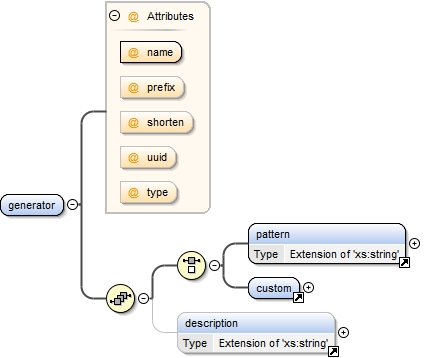
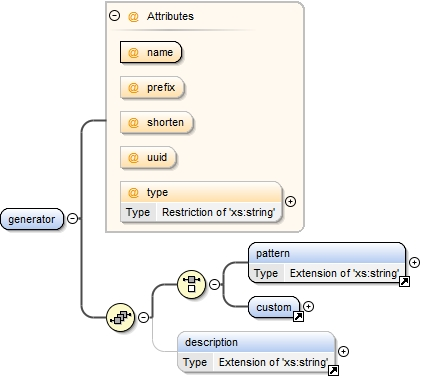
added only any, label and instance as allowed types in type attribute

Changed region(s): [[0.1781, 0.0, 0.9795, 1.0], [0.0, 0.5223, 0.2078, 0.6145], [0.7717, 0.8911, 0.8014, 0.9525]]

diff --git a/resources/X3ML Schema/generator_policy_documentation/generatorPolicy_xsd.html b/resources/X3ML Schema/generator_policy_documentation/generatorPolicy_xsd.html
@@ -16,7 +16,9 @@
 				'properties_custom_custom_set-arg_name', 
 				'properties_custom_custom_set-arg_type', 
 				'properties_custom_generatorClass', 
-				'properties_generator_name');
+				'properties_generator_name', 
+				'properties_generator_type');
+var facetsBoxes= new Array('facets_generator_type');
 var usedByBoxes= new Array('usedBy_generator', 
 				'usedBy_pattern', 
 				'usedBy_custom', 
@@ -311,6 +313,9 @@ var modelBoxes= new Array('model_generator_policy',
                         <td><span><input type="checkbox" value="-" checked="checked" onclick="switchStateForAll(this, diagramBoxes);" class="control" /></span><span class="globalControlName">Diagrams</span></td>
                      </tr>
                      <tr>
+                        <td><span><input type="checkbox" value="-" checked="checked" onclick="switchStateForAll(this, facetsBoxes);" class="control" /></span><span class="globalControlName">Facets </span></td>
+                     </tr>
+                     <tr>
                         <td><span><input type="checkbox" value="-" checked="checked" onclick="switchStateForAll(this, identityConstraintsBoxes);" class="control" /></span><span class="globalControlName">Identity Constraints</span></td>
                      </tr>
                      <tr>
@@ -521,10 +526,10 @@ var modelBoxes= new Array('model_generator_policy',
                                  <area alt="generatorPolicy_xsd.tmp#generator_prefix" href="generatorPolicy_xsd.html#generator_prefix" coords="120,76,187,101" />
                                  <area alt="generatorPolicy_xsd.tmp#generator_shorten" href="generatorPolicy_xsd.html#generator_shorten" coords="120,111,196,136" />
                                  <area alt="generatorPolicy_xsd.tmp#generator_uuid" href="generatorPolicy_xsd.html#generator_uuid" coords="120,146,179,171" />
-                                 <area alt="generatorPolicy_xsd.tmp#generator_type" href="generatorPolicy_xsd.html#generator_type" coords="120,181,180,206" />
-                                 <area alt="generatorPolicy_xsd.tmp#pattern" href="generatorPolicy_xsd.html#pattern" coords="248,223,420,267" />
-                                 <area alt="generatorPolicy_xsd.tmp#custom" href="generatorPolicy_xsd.html#custom" coords="248,277,314,302" />
-                                 <area alt="generatorPolicy_xsd.tmp#description" href="generatorPolicy_xsd.html#description" coords="177,312,349,356" /></map></div>
+                                 <area alt="generatorPolicy_xsd.tmp#generator_type" href="generatorPolicy_xsd.html#generator_type" coords="120,181,296,225" />
+                                 <area alt="generatorPolicy_xsd.tmp#pattern" href="generatorPolicy_xsd.html#pattern" coords="248,242,420,286" />
+                                 <area alt="generatorPolicy_xsd.tmp#custom" href="generatorPolicy_xsd.html#custom" coords="248,296,314,321" />
+                                 <area alt="generatorPolicy_xsd.tmp#description" href="generatorPolicy_xsd.html#description" coords="177,331,349,375" /></map></div>
                         </td>
                      </tr>
                      <tr>
@@ -631,7 +636,7 @@ var modelBoxes= new Array('model_generator_policy',
                                  </tr>
                                  <tr>
                                     <td class="firstColumn"><b><a href="generatorPolicy_xsd.html#generator_type" target="mainFrame" title="No namespace" onclick="updatePageTitle('Schema documentation for generatorPolicy.xsd')">type</a></b></td>
-                                    <td></td>
+                                    <td>restriction of <b>xs:string</b></td>
                                     <td>optional</td>
                                     <td>
                                        <div class="annotation"></div>
@@ -671,7 +676,15 @@ var modelBoxes= new Array('model_generator_policy',
     </span><span class="tEl">&lt;xs:attribute</span><span class="tAN"> name=</span><span class="tAV">"prefix"</span><span class="tEl">/&gt;</span><span class="tI">
     </span><span class="tEl">&lt;xs:attribute</span><span class="tAN"> name=</span><span class="tAV">"shorten"</span><span class="tEl">/&gt;</span><span class="tI">
     </span><span class="tEl">&lt;xs:attribute</span><span class="tAN"> name=</span><span class="tAV">"uuid"</span><span class="tEl">/&gt;</span><span class="tI">
-    </span><span class="tEl">&lt;xs:attribute</span><span class="tAN"> name=</span><span class="tAV">"type"</span><span class="tEl">/&gt;</span><span class="tI">
+    </span><span class="tEl">&lt;xs:attribute</span><span class="tAN"> name=</span><span class="tAV">"type"</span><span class="tEl">&gt;</span><span class="tI">
+      </span><span class="tEl">&lt;xs:simpleType</span><span class="tEl">&gt;</span><span class="tI">
+        </span><span class="tEl">&lt;xs:restriction</span><span class="tAN"> base=</span><span class="tAV">"xs:string"</span><span class="tEl">&gt;</span><span class="tI">
+          </span><span class="tEl">&lt;xs:enumeration</span><span class="tAN"> value=</span><span class="tAV">"any"</span><span class="tEl">/&gt;</span><span class="tI">
+          </span><span class="tEl">&lt;xs:enumeration</span><span class="tAN"> value=</span><span class="tAV">"instance"</span><span class="tEl">/&gt;</span><span class="tI">
+          </span><span class="tEl">&lt;xs:enumeration</span><span class="tAN"> value=</span><span class="tAV">"label"</span><span class="tEl">/&gt;</span><span class="tI">
+        </span><span class="tEl">&lt;/xs:restriction&gt;</span><span class="tI">
+      </span><span class="tEl">&lt;/xs:simpleType&gt;</span><span class="tI">
+    </span><span class="tEl">&lt;/xs:attribute&gt;</span><span class="tI">
   </span><span class="tEl">&lt;/xs:complexType&gt;</span><span class="tI">
 </span><span class="tEl">&lt;/xs:element&gt;</span></pre></td>
                                  </tr>
@@ -1622,6 +1635,59 @@ var modelBoxes= new Array('model_generator_policy',
                         <td>No namespace</td>
                      </tr>
                      <tr>
+                        <td class="firstColumn"><b>Type</b></td>
+                        <td>restriction of <b>xs:string</b></td>
+                     </tr>
+                     <tr>
+                        <td class="firstColumn">
+                           <div class="floatLeft"><b>Properties</b></div>
+                           <div class="floatRight"><input id="button_properties_generator_type" type="image" src="img/btM.gif" value="-" onclick="switchState('properties_generator_type');" class="control" /></div>
+                        </td>
+                        <td>
+                           <div id="properties_generator_type" style="display:block">
+                              <table class="propertiesTable">
+                                 <tr>
+                                    <td class="firstColumn" style="white-space: nowrap;">content</td>
+                                    <td><b>simple</b></td>
+                                 </tr>
+                              </table>
+                           </div>
+                        </td>
+                     </tr>
+                     <tr>
+                        <td class="firstColumn">
+                           <div class="floatLeft"><b>Facets</b></div>
+                           <div class="floatRight"><input id="button_facets_generator_type" type="image" src="img/btM.gif" value="-" onclick="switchState('facets_generator_type');" class="control" /></div>
+                        </td>
+                        <td>
+                           <div id="facets_generator_type" style="display:block">
+                              <table class="facetsTable">
+                                 <tr>
+                                    <td class="firstColumn">enumeration</td>
+                                    <td width="30%"><b>any</b></td>
+                                    <td>
+                                       <div class="annotation"></div>
+                                    </td>
+                                 </tr>
+                                 <tr>
+                                    <td class="firstColumn">enumeration</td>
+                                    <td width="30%"><b>instance</b></td>
+                                    <td>
+                                       <div class="annotation"></div>
+                                    </td>
+                                 </tr>
+                                 <tr>
+                                    <td class="firstColumn">enumeration</td>
+                                    <td width="30%"><b>label</b></td>
+                                    <td>
+                                       <div class="annotation"></div>
+                                    </td>
+                                 </tr>
+                              </table>
+                           </div>
+                        </td>
+                     </tr>
+                     <tr>
                         <td class="firstColumn">
                            <div class="floatLeft"><b>Used by</b></div>
                            <div class="floatRight"><input id="button_usedBy_generator_type" type="image" src="img/btM.gif" value="-" onclick="switchState('usedBy_generator_type');" class="control" /></div>
@@ -1646,7 +1712,15 @@ var modelBoxes= new Array('model_generator_policy',
                            <div id="source_generator_type" style="display:block">
                               <table style="table-layout:fixed;white-space:pre-wrap;white-space:-moz-pre-wrap;white-space:-pre-wrap;white-space: -o-pre-wrap;word-wrap: break-word;_white-space:pre;" class="preWrapContainer">
                                  <tr>
-                                    <td width="100%"><pre><span class="tEl">&lt;xs:attribute</span><span class="tAN"> name=</span><span class="tAV">"type"</span><span class="tEl">/&gt;</span></pre></td>
+                                    <td width="100%"><pre><span class="tEl">&lt;xs:attribute</span><span class="tAN"> name=</span><span class="tAV">"type"</span><span class="tEl">&gt;</span><span class="tI">
+  </span><span class="tEl">&lt;xs:simpleType</span><span class="tEl">&gt;</span><span class="tI">
+    </span><span class="tEl">&lt;xs:restriction</span><span class="tAN"> base=</span><span class="tAV">"xs:string"</span><span class="tEl">&gt;</span><span class="tI">
+      </span><span class="tEl">&lt;xs:enumeration</span><span class="tAN"> value=</span><span class="tAV">"any"</span><span class="tEl">/&gt;</span><span class="tI">
+      </span><span class="tEl">&lt;xs:enumeration</span><span class="tAN"> value=</span><span class="tAV">"instance"</span><span class="tEl">/&gt;</span><span class="tI">
+      </span><span class="tEl">&lt;xs:enumeration</span><span class="tAN"> value=</span><span class="tAV">"label"</span><span class="tEl">/&gt;</span><span class="tI">
+    </span><span class="tEl">&lt;/xs:restriction&gt;</span><span class="tI">
+  </span><span class="tEl">&lt;/xs:simpleType&gt;</span><span class="tI">
+</span><span class="tEl">&lt;/xs:attribute&gt;</span></pre></td>
                                  </tr>
                               </table>
                            </div>
